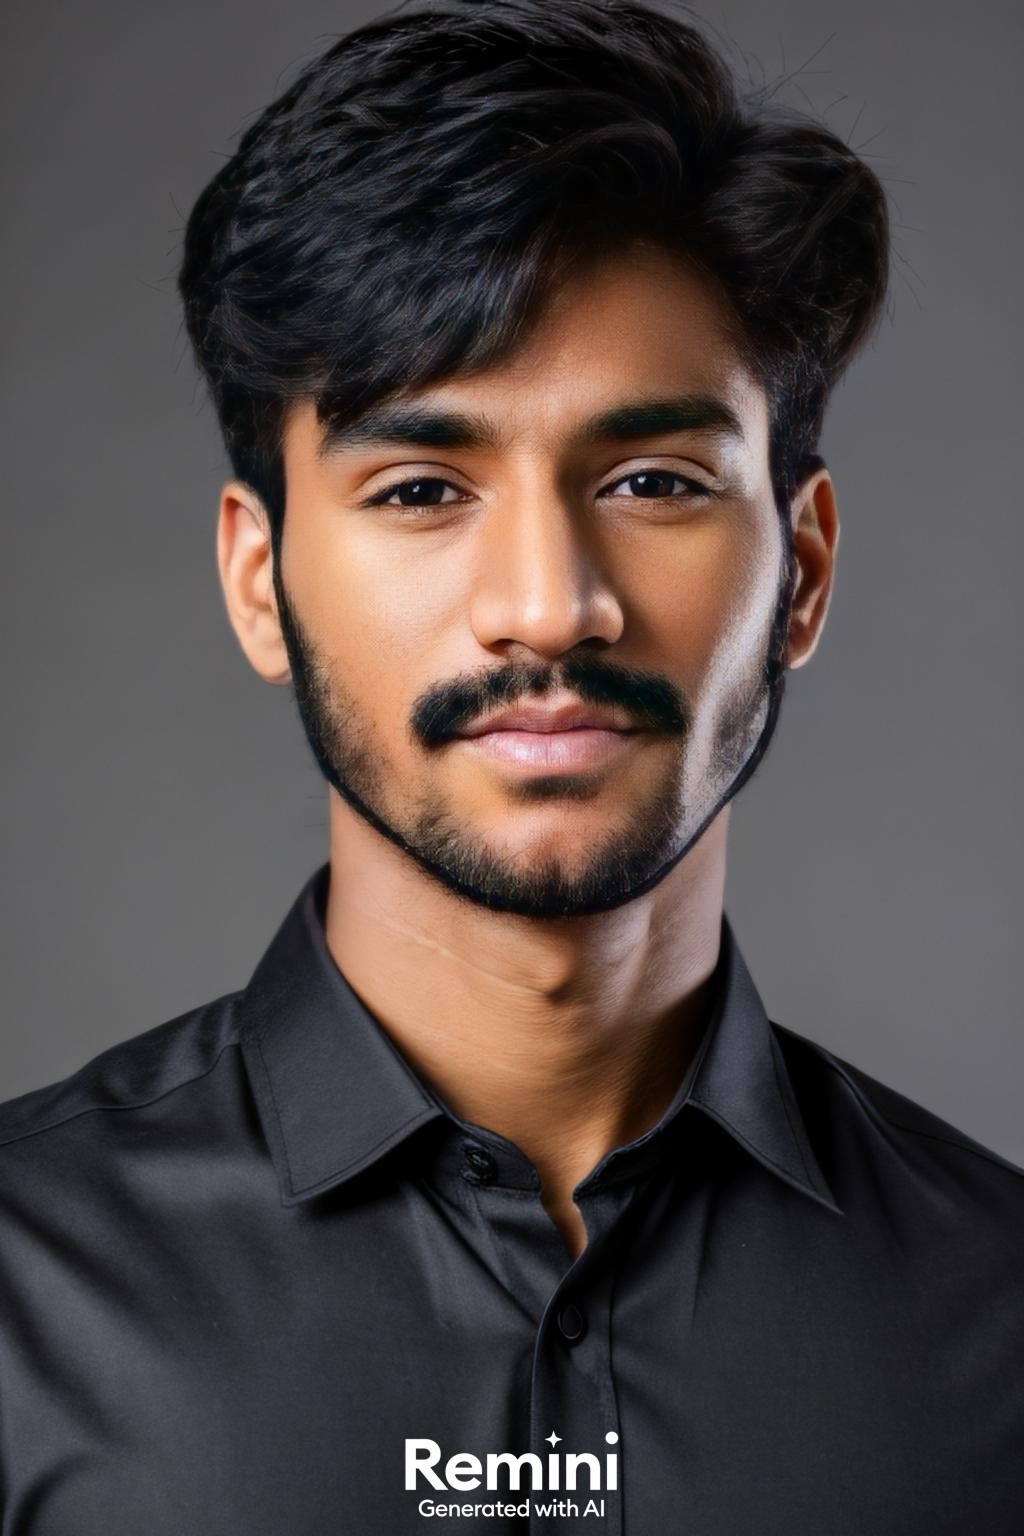
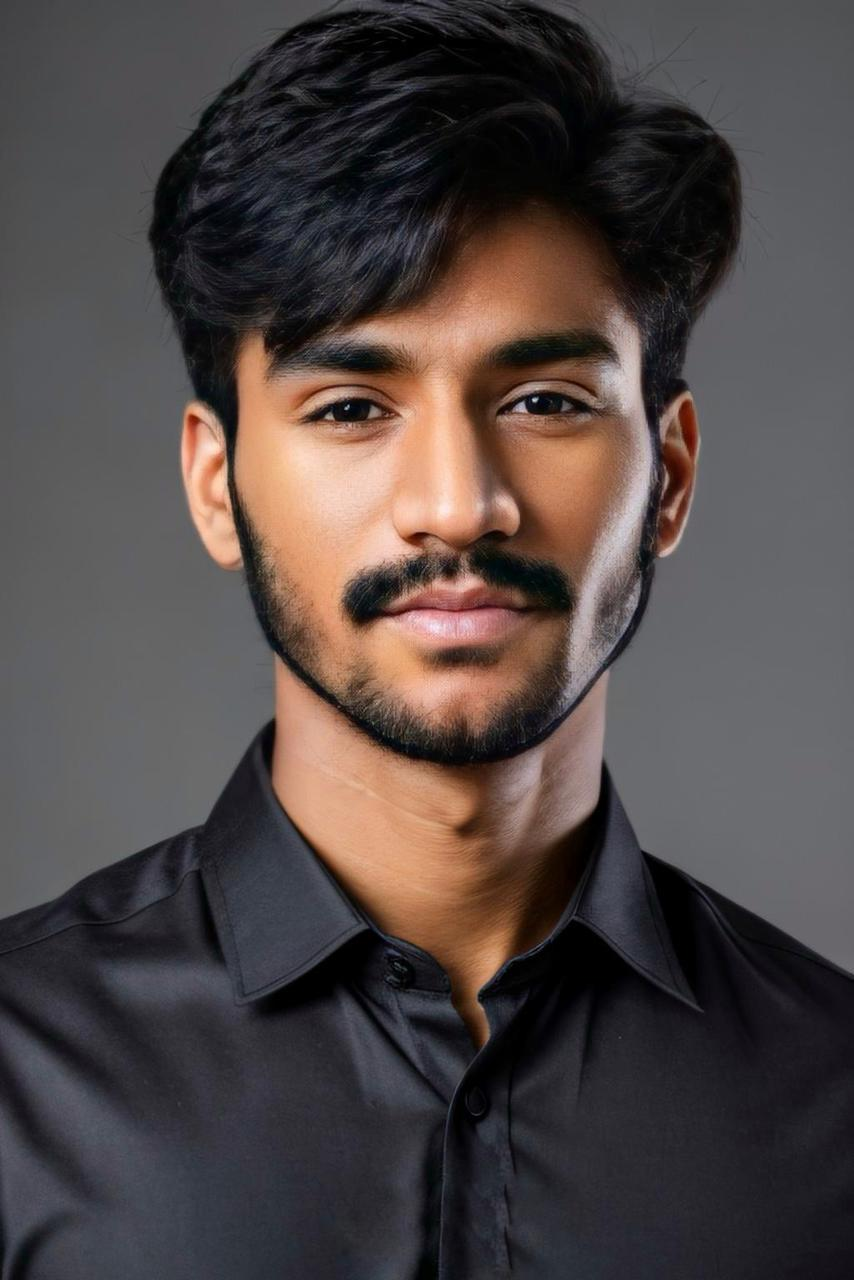
profile change and projects duplication removed

Changed region(s): [[0.3958, 0.9062, 0.6089, 1.0]]

diff --git a/src/Assets/PersonalInfo.js b/src/Assets/PersonalInfo.js
@@ -10,6 +10,7 @@ import RentEase7 from "../Assets/RentEase/RentEase7.png"
 
 
 
+
 export const infoList = [
     { icon: CodeIcon, iconDark: CodeIcon, title: 'Languages', description: 'Java, HTML, CSS, JavaScript React Js, Mongo DB, My SQL' },
     { icon: EduIcon, iconDark: EduIconDark, title: 'Education', description: 'B.Tech in Computer Science' },
@@ -28,11 +29,6 @@ export const techStack = [
 ]
 
 export const projects = [
-    { photos: [RentEase1, RentEase2, RentEase3, RentEase4, RentEase5, RentEase6, RentEase7], title: "RentEase – A Fullstack MERN-Based Booking & Hosting Platform", description: "RentEase is a fullstack web application built using the MERN stack (MongoDB, Express.js, React.js, Node.js) that allows users to host and book rental properties seamlessly. The platform features user authentication, Cloudinary image uploads, role-based access, property management, and booking functionality. It replicates core Airbnb-like experiences, including photo galleries, dynamic pricing, and user dashboards, making it a scalable rental marketplace.", source: "https://github.com/bsuryateja777/RentEase", deployed: "https://rentease-frontend.onrender.com/home" },
-    { photos: [RentEase1, RentEase2, RentEase3, RentEase4, RentEase5, RentEase6, RentEase7], title: "RentEase – A Fullstack MERN-Based Booking & Hosting Platform", description: "RentEase is a fullstack web application built using the MERN stack (MongoDB, Express.js, React.js, Node.js) that allows users to host and book rental properties seamlessly. The platform features user authentication, Cloudinary image uploads, role-based access, property management, and booking functionality. It replicates core Airbnb-like experiences, including photo galleries, dynamic pricing, and user dashboards, making it a scalable rental marketplace.", source: "https://github.com/bsuryateja777/RentEase", deployed: "https://rentease-frontend.onrender.com/home" },
-    { photos: [RentEase1, RentEase2, RentEase3, RentEase4, RentEase5, RentEase6, RentEase7], title: "RentEase – A Fullstack MERN-Based Booking & Hosting Platform", description: "RentEase is a fullstack web application built using the MERN stack (MongoDB, Express.js, React.js, Node.js) that allows users to host and book rental properties seamlessly. The platform features user authentication, Cloudinary image uploads, role-based access, property management, and booking functionality. It replicates core Airbnb-like experiences, including photo galleries, dynamic pricing, and user dashboards, making it a scalable rental marketplace.", source: "https://github.com/bsuryateja777/RentEase", deployed: "https://rentease-frontend.onrender.com/home" },
-    { photos: [RentEase1, RentEase2, RentEase3, RentEase4, RentEase5, RentEase6, RentEase7], title: "RentEase – A Fullstack MERN-Based Booking & Hosting Platform", description: "RentEase is a fullstack web application built using the MERN stack (MongoDB, Express.js, React.js, Node.js) that allows users to host and book rental properties seamlessly. The platform features user authentication, Cloudinary image uploads, role-based access, property management, and booking functionality. It replicates core Airbnb-like experiences, including photo galleries, dynamic pricing, and user dashboards, making it a scalable rental marketplace.", source: "https://github.com/bsuryateja777/RentEase", deployed: "https://rentease-frontend.onrender.com/home" },
-    { photos: [RentEase1, RentEase2, RentEase3, RentEase4, RentEase5, RentEase6, RentEase7], title: "RentEase – A Fullstack MERN-Based Booking & Hosting Platform", description: "RentEase is a fullstack web application built using the MERN stack (MongoDB, Express.js, React.js, Node.js) that allows users to host and book rental properties seamlessly. The platform features user authentication, Cloudinary image uploads, role-based access, property management, and booking functionality. It replicates core Airbnb-like experiences, including photo galleries, dynamic pricing, and user dashboards, making it a scalable rental marketplace.", source: "https://github.com/bsuryateja777/RentEase", deployed: "https://rentease-frontend.onrender.com/home" },
     { photos: [RentEase1, RentEase2, RentEase3, RentEase4, RentEase5, RentEase6, RentEase7], title: "RentEase – A Fullstack MERN-Based Booking & Hosting Platform", description: "RentEase is a fullstack web application built using the MERN stack (MongoDB, Express.js, React.js, Node.js) that allows users to host and book rental properties seamlessly. The platform features user authentication, Cloudinary image uploads, role-based access, property management, and booking functionality. It replicates core Airbnb-like experiences, including photo galleries, dynamic pricing, and user dashboards, making it a scalable rental marketplace.", source: "https://github.com/bsuryateja777/RentEase", deployed: "https://rentease-frontend.onrender.com/home" },
 ]
 

diff --git a/src/Components/About.jsx b/src/Components/About.jsx
@@ -10,7 +10,7 @@ export default function About() {
 
             <div className='flex w-full flex-col lg:flex-row items-center gap-7  lg:gap-8 2xl:gap-10  my-7 2xl:my-16'>
 
-                <div className='w-64 sm:w-80 h-[390px] lg:w-[240px] lg:h-[360px] 2xl:w-[275px] 2xl:h-[450px] rounded-3xl'>
+                <div className='w-64 sm:w-80 h-[390px] lg:w-[240px] lg:h-[360px] 2xl:w-[295px] 2xl:h-[450px] rounded-3xl'>
                     <img src={profileImage} alt='' className='w-full h-full rounded-2xl 2xl:rounded-3xl  ' />
                 </div>
 
